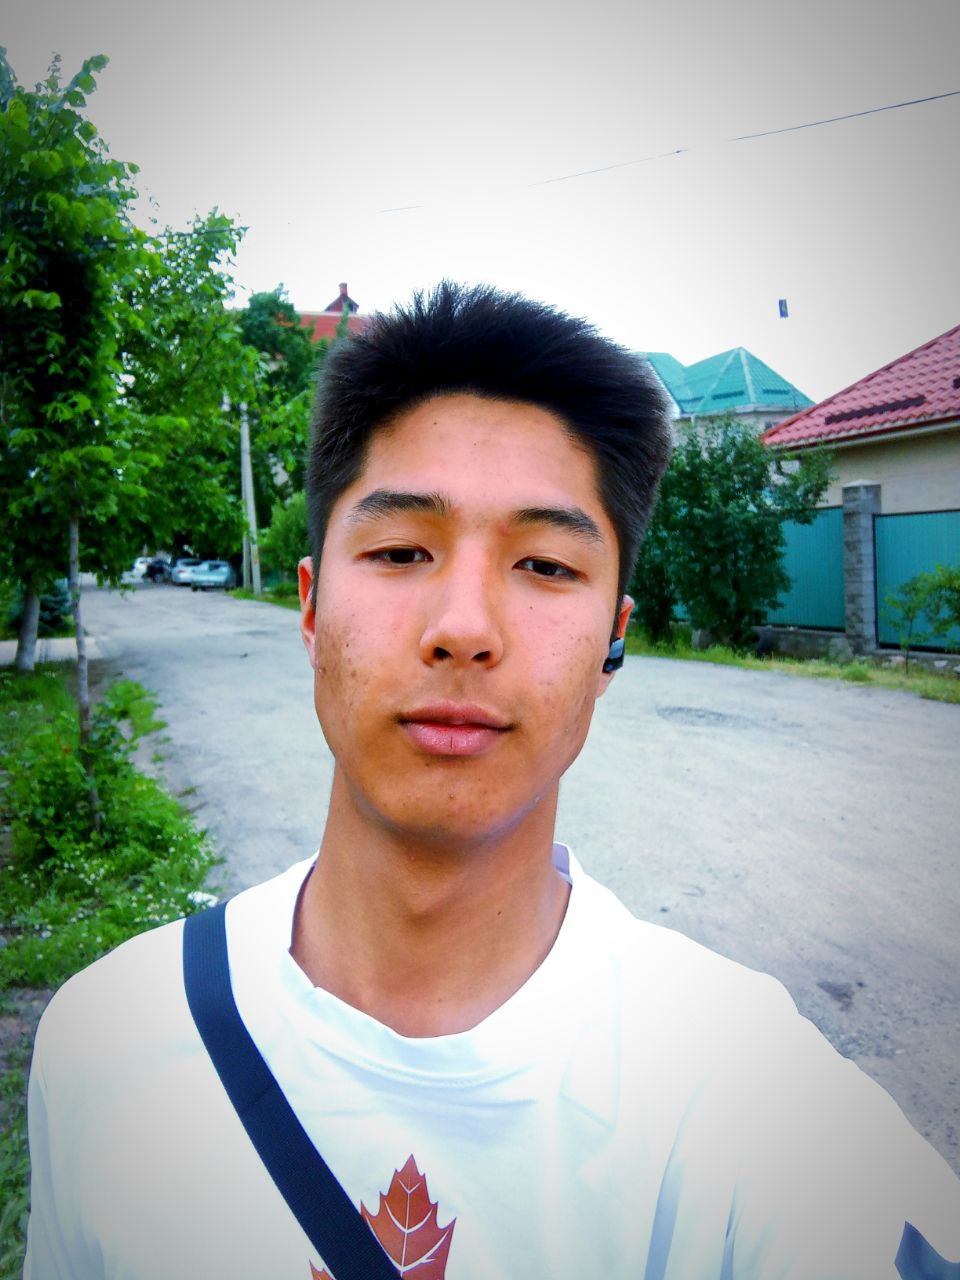
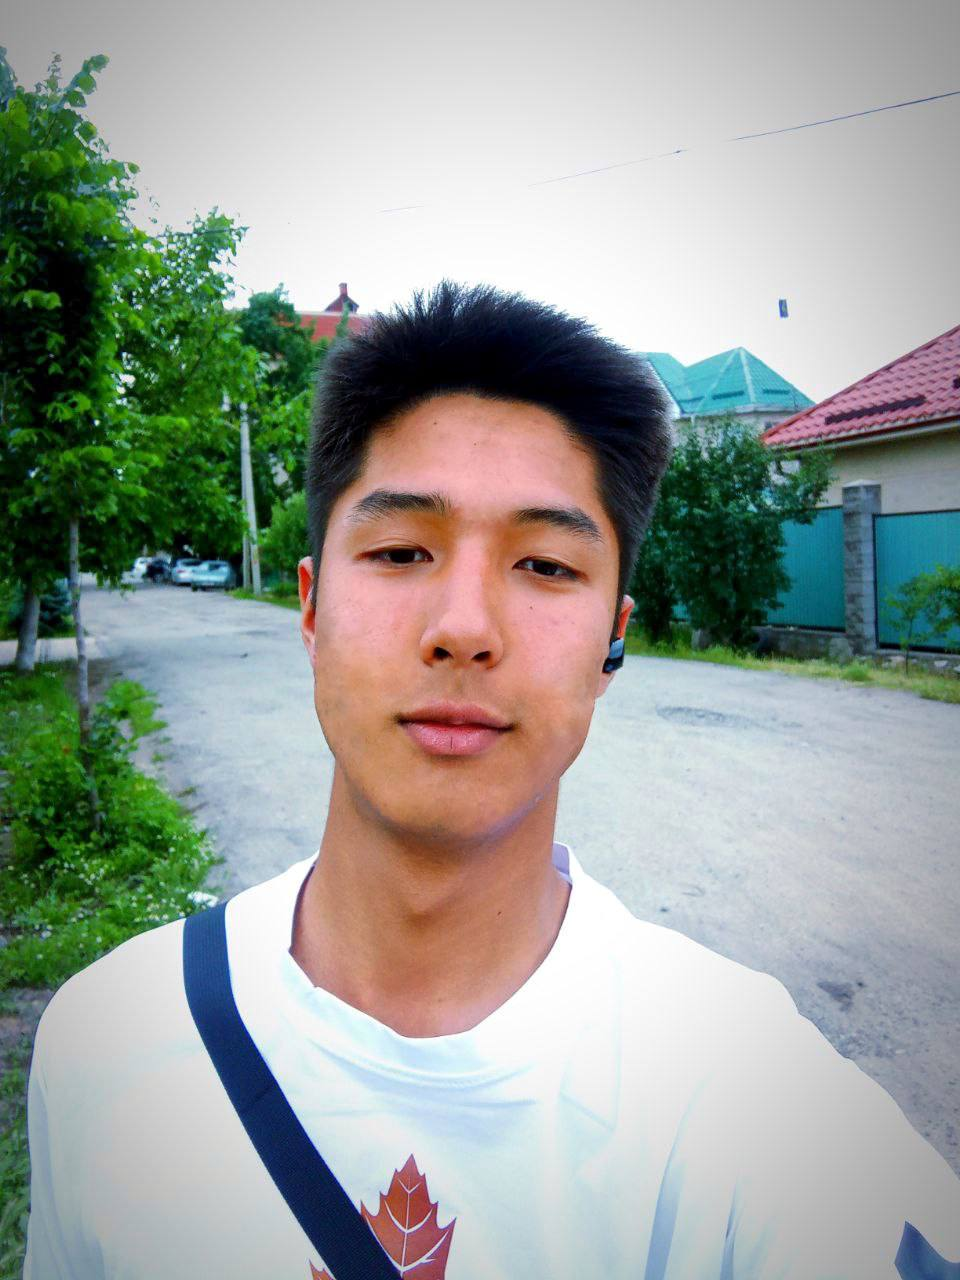
added tagloud sphere and some design

Changed region(s): [[0.3125, 0.4688, 0.4688, 0.625], [0.4688, 0.5938, 0.5312, 0.6562], [0.5938, 0.5312, 0.625, 0.5625]]

diff --git a/src/pages/MainPage/MainPage.jsx b/src/pages/MainPage/MainPage.jsx
@@ -1,13 +1,51 @@
-import React from "react";
+import React, { useEffect, useState, useRef } from "react";
 import image from "../../assets/img/MYface.jpg";
 import Layout from "../../Layouts/Layout";
 import styles from "./MainPage.module.css";
+import cn from "classnames";
+import TagCloud from "TagCloud";
 
 const MainPage = () => {
-  const btnState = {
-    display: "flex",
+  const [isImageVisible, setIsImageVisible] = useState(true);
+  const [isStackVisible, setIsStackVisible] = useState(false);
+  const textSphereRef = useRef(null);
+
+  const toggleFunction = () => {
+    setIsStackVisible(!isStackVisible);
+    setIsImageVisible(!isImageVisible);
   };
-  const toggleFunction = () => {};
+
+  useEffect(() => {
+    const container = textSphereRef.current;
+    const texts = [
+      "HTML",
+      "CSS",
+      "BEM",
+      "SASS",
+      "JavaScript",
+      "Jquery",
+      "React",
+      "ant-design",
+      "React-router",
+      "React-hook-form",
+      "ES6",
+      "GIT",
+      "GITHUB",
+      "Adaptive-layout",
+      "Axios"
+    ];
+
+    const options = {
+      radius: 250,
+      maxSpeed: "fast",
+      initSpeed: "fast",
+      keep: true,
+    };
+
+    if (container) {
+      TagCloud(container, texts, options);
+    }
+  }, [0]);
 
   return (
     <Layout>
@@ -16,7 +54,7 @@ const MainPage = () => {
           <div className={styles.mainpage_info}>
             <div className={styles.info_general}>
               <p className={styles.hello_text}>Здравствуйте! Меня зовут</p>
-              <h2>Акылбек </h2>
+              <h2>Акылбек</h2>
               <p>и я начинающий</p>
               <h1>Front-end developer</h1>
             </div>
@@ -26,13 +64,29 @@ const MainPage = () => {
                 так же ознакомитсья с моим резюме
               </p>
             </div>
-            <div className={styles.mainpage_btn}>
+            <div className={styles.mainpage_btn} onClick={toggleFunction}>
               <span>Показать стек</span>
               <i></i>
             </div>
           </div>
-          <div className={styles.mainpage_img}>
-            <img src={image} alt="face-image" className={styles.face_image} />
+          <div
+            className={styles.mainpage_img}
+            style={{ position: "relative", width: "500px", height: "500px" }}
+          >
+            <img
+              src={image}
+              alt="face-image"
+              className={cn(styles.face_image, {
+                [styles.face_image_hidden]: !isImageVisible,
+              })}
+            />
+            <div
+              className={cn(styles.stack_div, {
+                [styles.stack_visible]: isStackVisible,
+              })}
+            >
+              <div ref={textSphereRef} className={styles.text_sphere}></div>
+            </div>
           </div>
         </div>
       </div>

diff --git a/src/pages/MainPage/MainPage.module.css b/src/pages/MainPage/MainPage.module.css
@@ -1,5 +1,6 @@
 @import url("https://fonts.googleapis.com/css2?family=Edu+TAS+Beginner:wght@400..700&family=Sevillana&display=swap");
 @import url("https://fonts.googleapis.com/css2?family=Dancing+Script:wght@400..700&display=swap");
+@import url("https://fonts.googleapis.com/css2?family=Inter:wght@100;200;300;400;600;700;800;900&display=swap");
 
 .mainpage {
   padding: 0;
@@ -163,16 +164,39 @@ h2::after {
   padding-top: 30px;
 }
 
-.face_image {
-  border-radius: 50%;
+.mainpage_img {
   width: 500px;
   height: 500px;
-  border: 3px solid #00cf00;
-  transition: 1s;
 }
 
-.face_image:hover {
-  box-shadow: 0 0 20px #00cf00;
+.face_image {
+  border-radius: 50%;
+  width: 100%;
+  height: 100%;
+  border: 3px solid #00cf00;
+  transition: opacity 1s, box-shadow 1s;
+}
+
+.face_image_hidden {
+  opacity: 0;
+}
+
+.stack_div {
+  position: absolute;
+  top: 0;
+  left: 0;
+  width: 100%;
+  height: 100%;
+  display: flex;
+  align-items: center;
+  justify-content: center;
+  transition: opacity 0.2;
+  opacity: 0;
+}
+
+.stack_visible {
+  transition: opacity 3s;
+  opacity: 1;
 }
 
 .mainpage_btn {
@@ -254,6 +278,30 @@ h2::after {
   width: 15px;
   left: 80%;
   animation: move 3s infinite;
+}
+
+.text_sphere {
+  position: relative;
+  top: 0;
+  width: 100%;
+  height: 100vh;
+  display: flex;
+  justify-content: center;
+  align-items: center;
+}
+
+.tagcloud {
+  display: inline-block;
+  top: 0;
+  left: 0;
+  font-family: "Inter", sans-serif;
+  font-weight: 600;
+  letter-spacing: 0.0625em;
+  font-size: 1.3em;
+}
+
+.stack_visible {
+  color: #00cf00;
 }
 
 @keyframes move {

diff --git a/src/components/Header/Header.module.css b/src/components/Header/Header.module.css
@@ -1,7 +1,3 @@
-@font-face {
-  font-family: "strogyi";
-  src: url("../../assets//fonts/StrogiyDemo-A-Black.otf");
-}
 
 .header {
   background-color: #181a1d;
@@ -17,7 +13,6 @@
 
 .header_nav a {
   text-decoration: none;
-  font-family: "strogyi";
   font-size: 20px;
   color: white;
   border-top: none;
